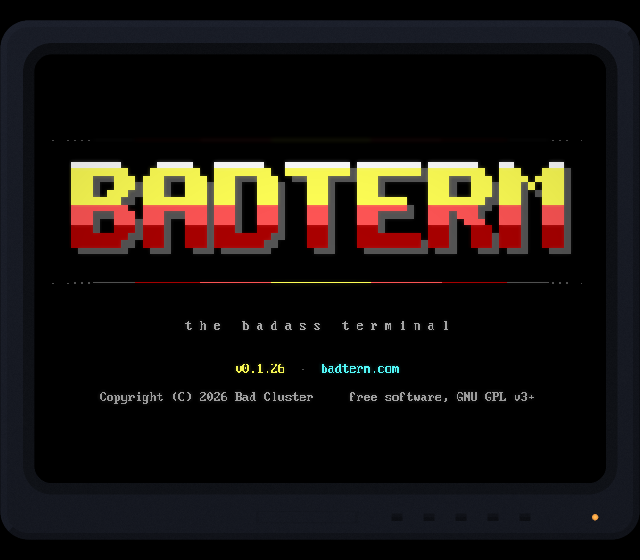
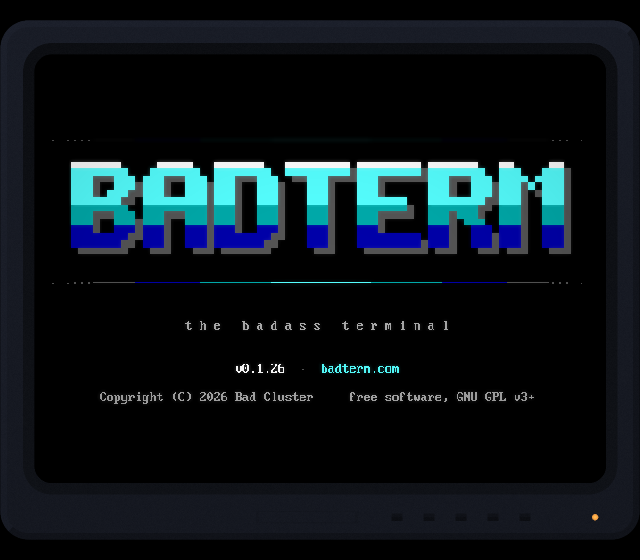
Splash: an ice gradient instead of fire
White highlight, light cyan, cyan and deep blue down the letters; the rules in the same colors, the version in white.

Claude-Session: https://claude.ai/code/session_01F8KB6yGMTk6dZ8eUP3RvhB

Changed region(s): [[0.0938, 0.2732, 0.9062, 0.4554], [0.375, 0.6375, 0.4375, 0.6679]]

diff --git a/crates/badterm/src/ui/splash.rs b/crates/badterm/src/ui/splash.rs
@@ -4,8 +4,8 @@
 //! The art is drawn the way the BBS scene's logos were: on a canvas of
 //! half-block "pixels" (each text cell is two of them, stacked: `▀` in one
 //! color over another), so letters can have rounded corners and a color
-//! ramp down them. The letters fade from white through yellow to red, as
-//! if lit from above, and cast a dark shadow down and to the right; thin
+//! ramp down them. The letters fade from white through cyan to blue, like
+//! ice lit from above, and cast a dark shadow down and to the right; thin
 //! rules above and below fade out to dots, in the same colors.
 
 use std::time::Duration;
@@ -147,9 +147,9 @@ const LETTERS: [(char, [&str; 12]); 7] = [
     ),
 ];
 
-/// The letters' color by pixel row: white-hot at the top, through yellow,
-/// to red at the bottom.
-const RAMP: [u8; 12] = [15, 14, 14, 14, 14, 14, 12, 12, 12, 4, 4, 4];
+/// The letters' color by pixel row, ice: a white highlight at the top,
+/// light cyan, cyan, then deep blue at the bottom.
+const RAMP: [u8; 12] = [15, 11, 11, 11, 11, 11, 3, 3, 3, 1, 1, 1];
 /// Where the logo's top pixel row is (an even one: a text row's top).
 const LOGO_Y: usize = 10;
 const SHADOW: u8 = 8;
@@ -206,9 +206,9 @@ fn rule(s: &mut Screen, y: usize) {
     for x in 0..COLS {
         let d = ((x as f64 + 0.5) - COLS as f64 / 2.0).abs() / (COLS as f64 / 2.0);
         let (ch, fg) = match d {
-            d if d < 0.18 => (0xC4, 14),
-            d if d < 0.42 => (0xC4, 12),
-            d if d < 0.66 => (0xC4, 4),
+            d if d < 0.18 => (0xC4, 11),
+            d if d < 0.42 => (0xC4, 3),
+            d if d < 0.66 => (0xC4, 1),
             d if d < 0.80 => (0xC4, 8),
             d if d < 0.88 => (0xF9, 8),
             d if d < 0.95 && x % 2 == 0 => (0xFA, 8),
@@ -249,7 +249,7 @@ pub fn draw(s: &mut Screen) {
     rule(s, bottom);
     let version = format!("v{}", env!("CARGO_PKG_VERSION"));
     centered(s, bottom + 3, &[("t h e   b a d a s s   t e r m i n a l", 7)]);
-    centered(s, bottom + 6, &[(version.as_str(), 14), ("  \u{00B7}  ", 8), ("badterm.com", 11)]);
+    centered(s, bottom + 6, &[(version.as_str(), 15), ("  \u{00B7}  ", 8), ("badterm.com", 11)]);
     let copyright = [("Copyright (C) 2026 Bad Cluster", 7), ("  \u{00B7}  ", 8), ("free software, GNU GPL v3+", 7)];
     centered(s, bottom + 8, &copyright);
 }
